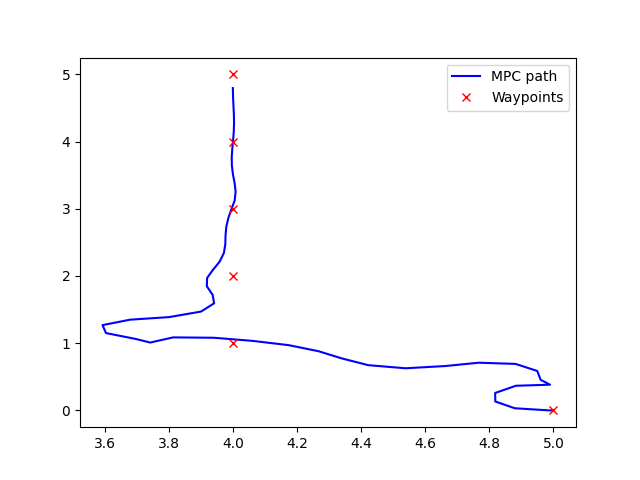
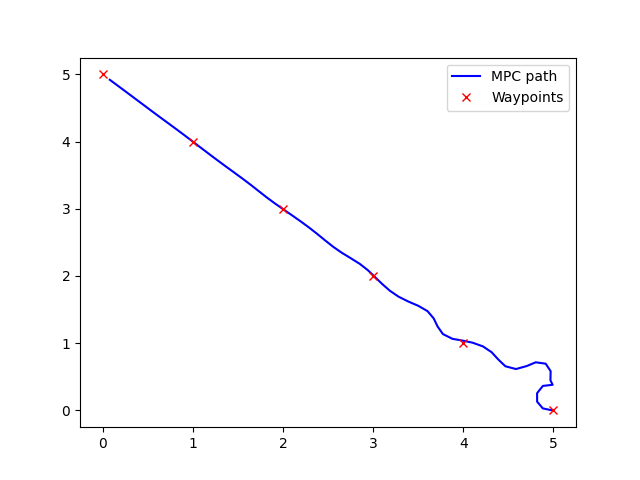
some graphs

diff --git a/src/mpc/src/control_chance.py b/src/mpc/src/control_chance.py
@@ -259,9 +259,9 @@ def main(args):
     global current_waypoint_index
     global num_robots
 
-    if(len(sys.argv)!=5):
-        print ("Please enter number of robots, robot_id, goal_x, goal_y as node arguments")
-        return 0
+    # if(len(sys.argv)!=5):
+    #     print ("Please enter number of robots, robot_id, goal_x, goal_y as node arguments")
+    #     return 0
 
     num_robots = int(sys.argv[1]);
     robot_id = int(sys.argv[2]);
@@ -275,15 +275,20 @@ def main(args):
 
     robot = Robot(Q, R, Qf, bot_radius, epsilon, robot_id);
 
-    minimal_client = ClientAsync()
-    start_pos = get_robot_state(robot_id) 
-    print(round(start_pos[0], 0), round(start_pos[1], 0))
-    response = minimal_client.send_request(round(start_pos[0], 0), round(start_pos[1], 0), float(sys.argv[3]), float(sys.argv[4]))
-    size = len(response.path)
-    waypoints = np.zeros((size,3))
-    for i in range(size):
-        waypoints[i,:] = np.array([response.path[i].x, response.path[i].y, 0.0])
-    print(waypoints)
+    # minimal_client = ClientAsync()
+    # start_pos = get_robot_state(robot_id) 
+    # print(round(start_pos[0], 0), round(start_pos[1], 0))
+    # response = minimal_client.send_request(round(start_pos[0], 0), round(start_pos[1], 0), float(sys.argv[3]), float(sys.argv[4]))
+    # size = len(response.path)
+    # waypoints = np.zeros((size,3))
+    # for i in range(size):
+    #     waypoints[i,:] = np.array([response.path[i].x, response.path[i].y, 0.0])
+    # print(waypoints)
+
+    ls_waypoints = [np.array([[0,0,0],[1,1,0], [2,2,0], [3,3,0], [4,4,0], [5,5,0]]),
+                    np.array([[5,0,0],[4,1,0], [3,2,0], [2,3,0], [1,4,0], [0,5,0]]),
+                    np.array([[2,0,0],[2.5,1,0], [2.5,2,0], [2.5,3,0], [2.5,4,0], [2.5,5,0]])]
+    waypoints = ls_waypoints[robot_id-1]
     file_path = "graphs/waypoints_"+str(robot_id)
     np.save(file_path+".npy", waypoints)
     # pdb.set_trace()
@@ -291,8 +296,8 @@ def main(args):
     current_waypoint_index = 0
 
     robot_mpc(robot, robot_id, num_robots)
-    minimal_client.destroy_node()
-    rclpy.shutdown()
+    # minimal_client.destroy_node()
+    # rclpy.shutdown()
 
 
 
